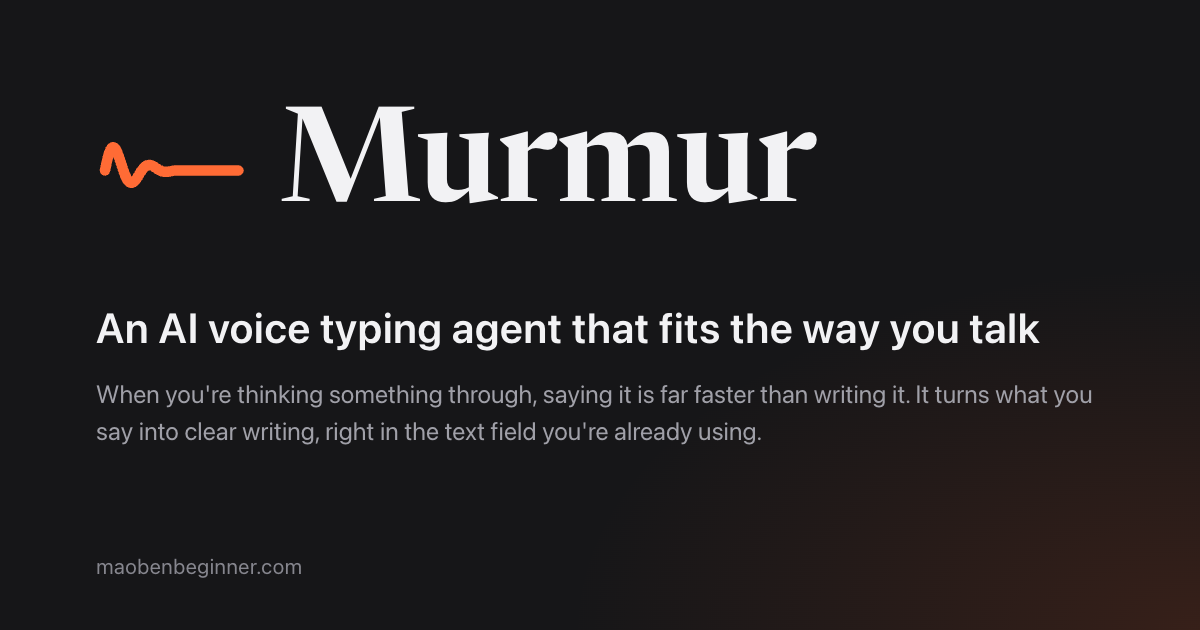
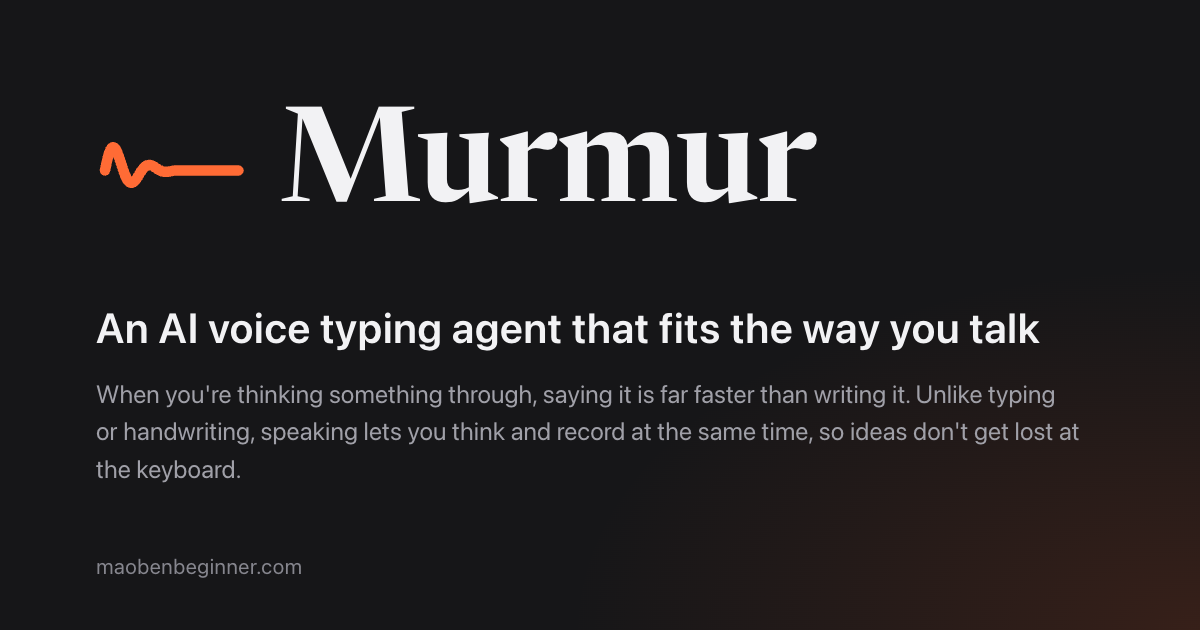
首屏副标题第二句改用 Wei 选的 B:思考和记录同时发生,想法不会在敲键盘时丢掉

Changed region(s): [[0.0617, 0.6032, 0.925, 0.7841]]

diff --git a/en/index.html b/en/index.html
@@ -6,14 +6,14 @@
 <meta name="viewport" content="width=device-width, initial-scale=1">
 <script>document.documentElement.classList.add('js');</script>
 <title>Murmur · An AI voice typing agent that fits the way you talk</title>
-<meta name="description" content="An AI voice typing agent that fits the way you talk. When you&#x27;re thinking something through, saying it is far faster than writing it. It turns what you say into clear writing, right in the text field you&#x27;re already using.">
+<meta name="description" content="An AI voice typing agent that fits the way you talk. When you&#x27;re thinking something through, saying it is far faster than writing it. Unlike typing or handwriting, speaking lets you think and record at the same time, so ideas don&#x27;t get lost at the keyboard.">
 <link rel="canonical" href="https://maobenbeginner.com/en/">
 <meta property="og:type" content="website">
 <meta property="og:site_name" content="Murmur">
 <meta property="og:locale" content="en_US">
 <meta property="og:url" content="https://maobenbeginner.com/en/">
 <meta property="og:title" content="Murmur · An AI voice typing agent that fits the way you talk">
-<meta property="og:description" content="An AI voice typing agent that fits the way you talk. When you&#x27;re thinking something through, saying it is far faster than writing it. It turns what you say into clear writing, right in the text field you&#x27;re already using.">
+<meta property="og:description" content="An AI voice typing agent that fits the way you talk. When you&#x27;re thinking something through, saying it is far faster than writing it. Unlike typing or handwriting, speaking lets you think and record at the same time, so ideas don&#x27;t get lost at the keyboard.">
 <meta property="og:image" content="https://maobenbeginner.com/og-en.png">
 <meta property="og:image:width" content="1200">
 <meta property="og:image:height" content="630">
@@ -861,7 +861,7 @@ body.is-sandbox .sandbox { display: inline-block; }
 <!-- ── Hero:全页最大的一场动画只留给「说完,字落下」── -->
 <header class="hero wrap" id="top">
   <h1 class="reveal" data-hero-title>An AI voice typing agent <br>that fits the way you talk.</h1>
-  <p class="lede reveal" data-hero-lede>When you're thinking something through, saying it is far faster than writing it. <br>It turns what you say into clear writing, right in the text field you're already using.</p>
+  <p class="lede reveal" data-hero-lede>When you're thinking something through, saying it is far faster than writing it. <br>Unlike typing or handwriting, speaking lets you think and record at the same time, so ideas don't get lost at the keyboard.</p>
   <!-- SITEFIX-7 → SITE-V3:手机(≤820px)上 Mac 版装不了 → 主按钮换成「申请账号」,「下载 Mac 版」收起;关于 Windows 版、看演示照留。 -->
   <div class="cta-row reveal">
     <a class="btn btn-primary cta-dl" href="#download">Download for Mac</a>

diff --git a/index.html b/index.html
@@ -6,14 +6,14 @@
 <meta name="viewport" content="width=device-width, initial-scale=1">
 <script>document.documentElement.classList.add('js');</script>
 <title>Murmur · 符合你的 AI 智能语音输入体</title>
-<meta name="description" content="符合你的 AI 智能语音输入体。想事情的时候,说出来比写下来快得多。它把你说出的想法整理成清楚的文字,直接写进你正在用的输入框。">
+<meta name="description" content="符合你的 AI 智能语音输入体。想事情的时候,说出来比写下来快得多。比起打字和手写,说话让思考和记录同时发生,想法不会在敲键盘时丢掉。">
 <link rel="canonical" href="https://maobenbeginner.com/">
 <meta property="og:type" content="website">
 <meta property="og:site_name" content="Murmur">
 <meta property="og:locale" content="zh_CN">
 <meta property="og:url" content="https://maobenbeginner.com/">
 <meta property="og:title" content="Murmur · 符合你的 AI 智能语音输入体">
-<meta property="og:description" content="符合你的 AI 智能语音输入体。想事情的时候,说出来比写下来快得多。它把你说出的想法整理成清楚的文字,直接写进你正在用的输入框。">
+<meta property="og:description" content="符合你的 AI 智能语音输入体。想事情的时候,说出来比写下来快得多。比起打字和手写,说话让思考和记录同时发生,想法不会在敲键盘时丢掉。">
 <meta property="og:image" content="https://maobenbeginner.com/og.png">
 <meta property="og:image:width" content="1200">
 <meta property="og:image:height" content="630">
@@ -862,7 +862,7 @@ body.is-sandbox .sandbox { display: inline-block; }
 <!-- ── Hero:全页最大的一场动画只留给「说完,字落下」── -->
 <header class="hero wrap" id="top">
   <h1 class="reveal" data-hero-title>符合你的 <br>AI 智能语音输入体。</h1>
-  <p class="lede reveal" data-hero-lede>想事情的时候,说出来比写下来快得多。<br>它把你说出的想法整理成清楚的文字,直接写进你正在用的输入框。</p>
+  <p class="lede reveal" data-hero-lede>想事情的时候,说出来比写下来快得多。<br>比起打字和手写,说话让思考和记录同时发生,想法不会在敲键盘时丢掉。</p>
   <!-- SITEFIX-7 → SITE-V3:手机(≤820px)上 Mac 版装不了 → 主按钮换成「申请账号」,「下载 Mac 版」收起;关于 Windows 版、看演示照留。 -->
   <div class="cta-row reveal">
     <a class="btn btn-primary cta-dl" href="#download">下载 Mac 版</a>
